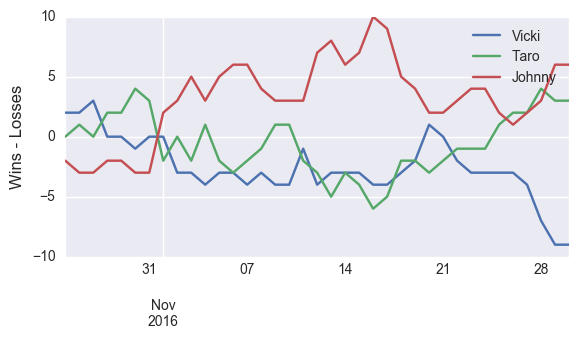
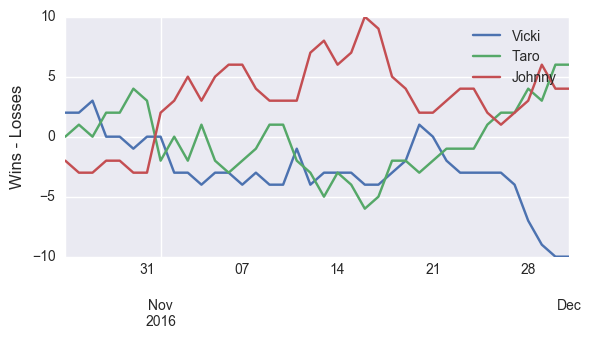
update 12/1

diff --git a/index.html b/index.html
@@ -35,7 +35,7 @@
 <a id="the-bet-is-on" class="anchor" href="#the-bet-is-on" aria-hidden="true"><span aria-hidden="true" class="octicon octicon-link"></span></a>The bet is on.</h1>
 
 <h1>
-<a id="current-winner-of-2016-17-season" class="anchor" href="#current-winner-of-2016-17-season" aria-hidden="true"><span aria-hidden="true" class="octicon octicon-link"></span></a>Current winner of 2016-17 Season (as of 11/30/2016):</h1>
+<a id="current-winner-of-2016-17-season" class="anchor" href="#current-winner-of-2016-17-season" aria-hidden="true"><span aria-hidden="true" class="octicon octicon-link"></span></a>Current winner of 2016-17 Season (as of 12/1/2016):</h1>
 
 <h2>
 <a id="none" class="anchor" href="#none" aria-hidden="true"><span aria-hidden="true" class="octicon octicon-link"></span></a><strong>Johnny</strong>
@@ -44,23 +44,23 @@
 <h2>
 <a id="johnny" class="anchor" href="#johnny" aria-hidden="true"><span aria-hidden="true" class="octicon octicon-link"></span></a>Johnny</h2>
 
-<p>Wins: 92<br>
-Losses: 86<br>
-Remaining wins available: 549</p>
+<p>Wins: 94<br>
+Losses: 90<br>
+Remaining wins available: 544</p>
 
 <h2>
 <a id="taro" class="anchor" href="#taro" aria-hidden="true"><span aria-hidden="true" class="octicon octicon-link"></span></a>Taro</h2>
 
-<p>Wins: 90<br>
-Losses: 87<br>
-Remaining wins available: 548</p>
+<p>Wins: 94<br>
+Losses: 88<br>
+Remaining wins available: 543</p>
 
 <h2>
 <a id="vicki" class="anchor" href="#vicki" aria-hidden="true"><span aria-hidden="true" class="octicon octicon-link"></span></a>Vicki</h2>
 
-<p>Wins: 83<br>
-Losses: 92<br>
-Remaining wins available: 553</p>
+<p>Wins: 86<br>
+Losses: 96<br>
+Remaining wins available: 546</p>
 
 <img src='pythoncode/win_percent.png' alt='Winning Percentage Over Time'>
 <h1>
